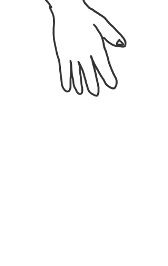
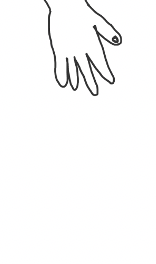
back homunc done

Changed region(s): [[0.2564, 0.0, 0.7949, 0.3636]]

diff --git a/src/screens/BackHomuncScreen.js b/src/screens/BackHomuncScreen.js
@@ -110,23 +110,23 @@ const styles = StyleSheet.create({
         resizeMode: 'contain',
     },
     hand: {
-        width: 69,
-        height: 55,
+        width: 77,
+        height: 135,
         resizeMode: 'contain',
     },
     leg: {
-        width: 50,
-        height: 140,
+        width: 55,
+        height: 130,
         resizeMode: 'contain',
     },
     lowerLeg: {
-        width: 133,
-        height: 100,
+        width: 130,
+        height: 70,
         resizeMode: 'contain',
     },
     foot: {
-        width: 138,
-        height: 50,
+        width: 140,
+        height: 67,
         resizeMode: 'contain',
     },
     rotate: {
